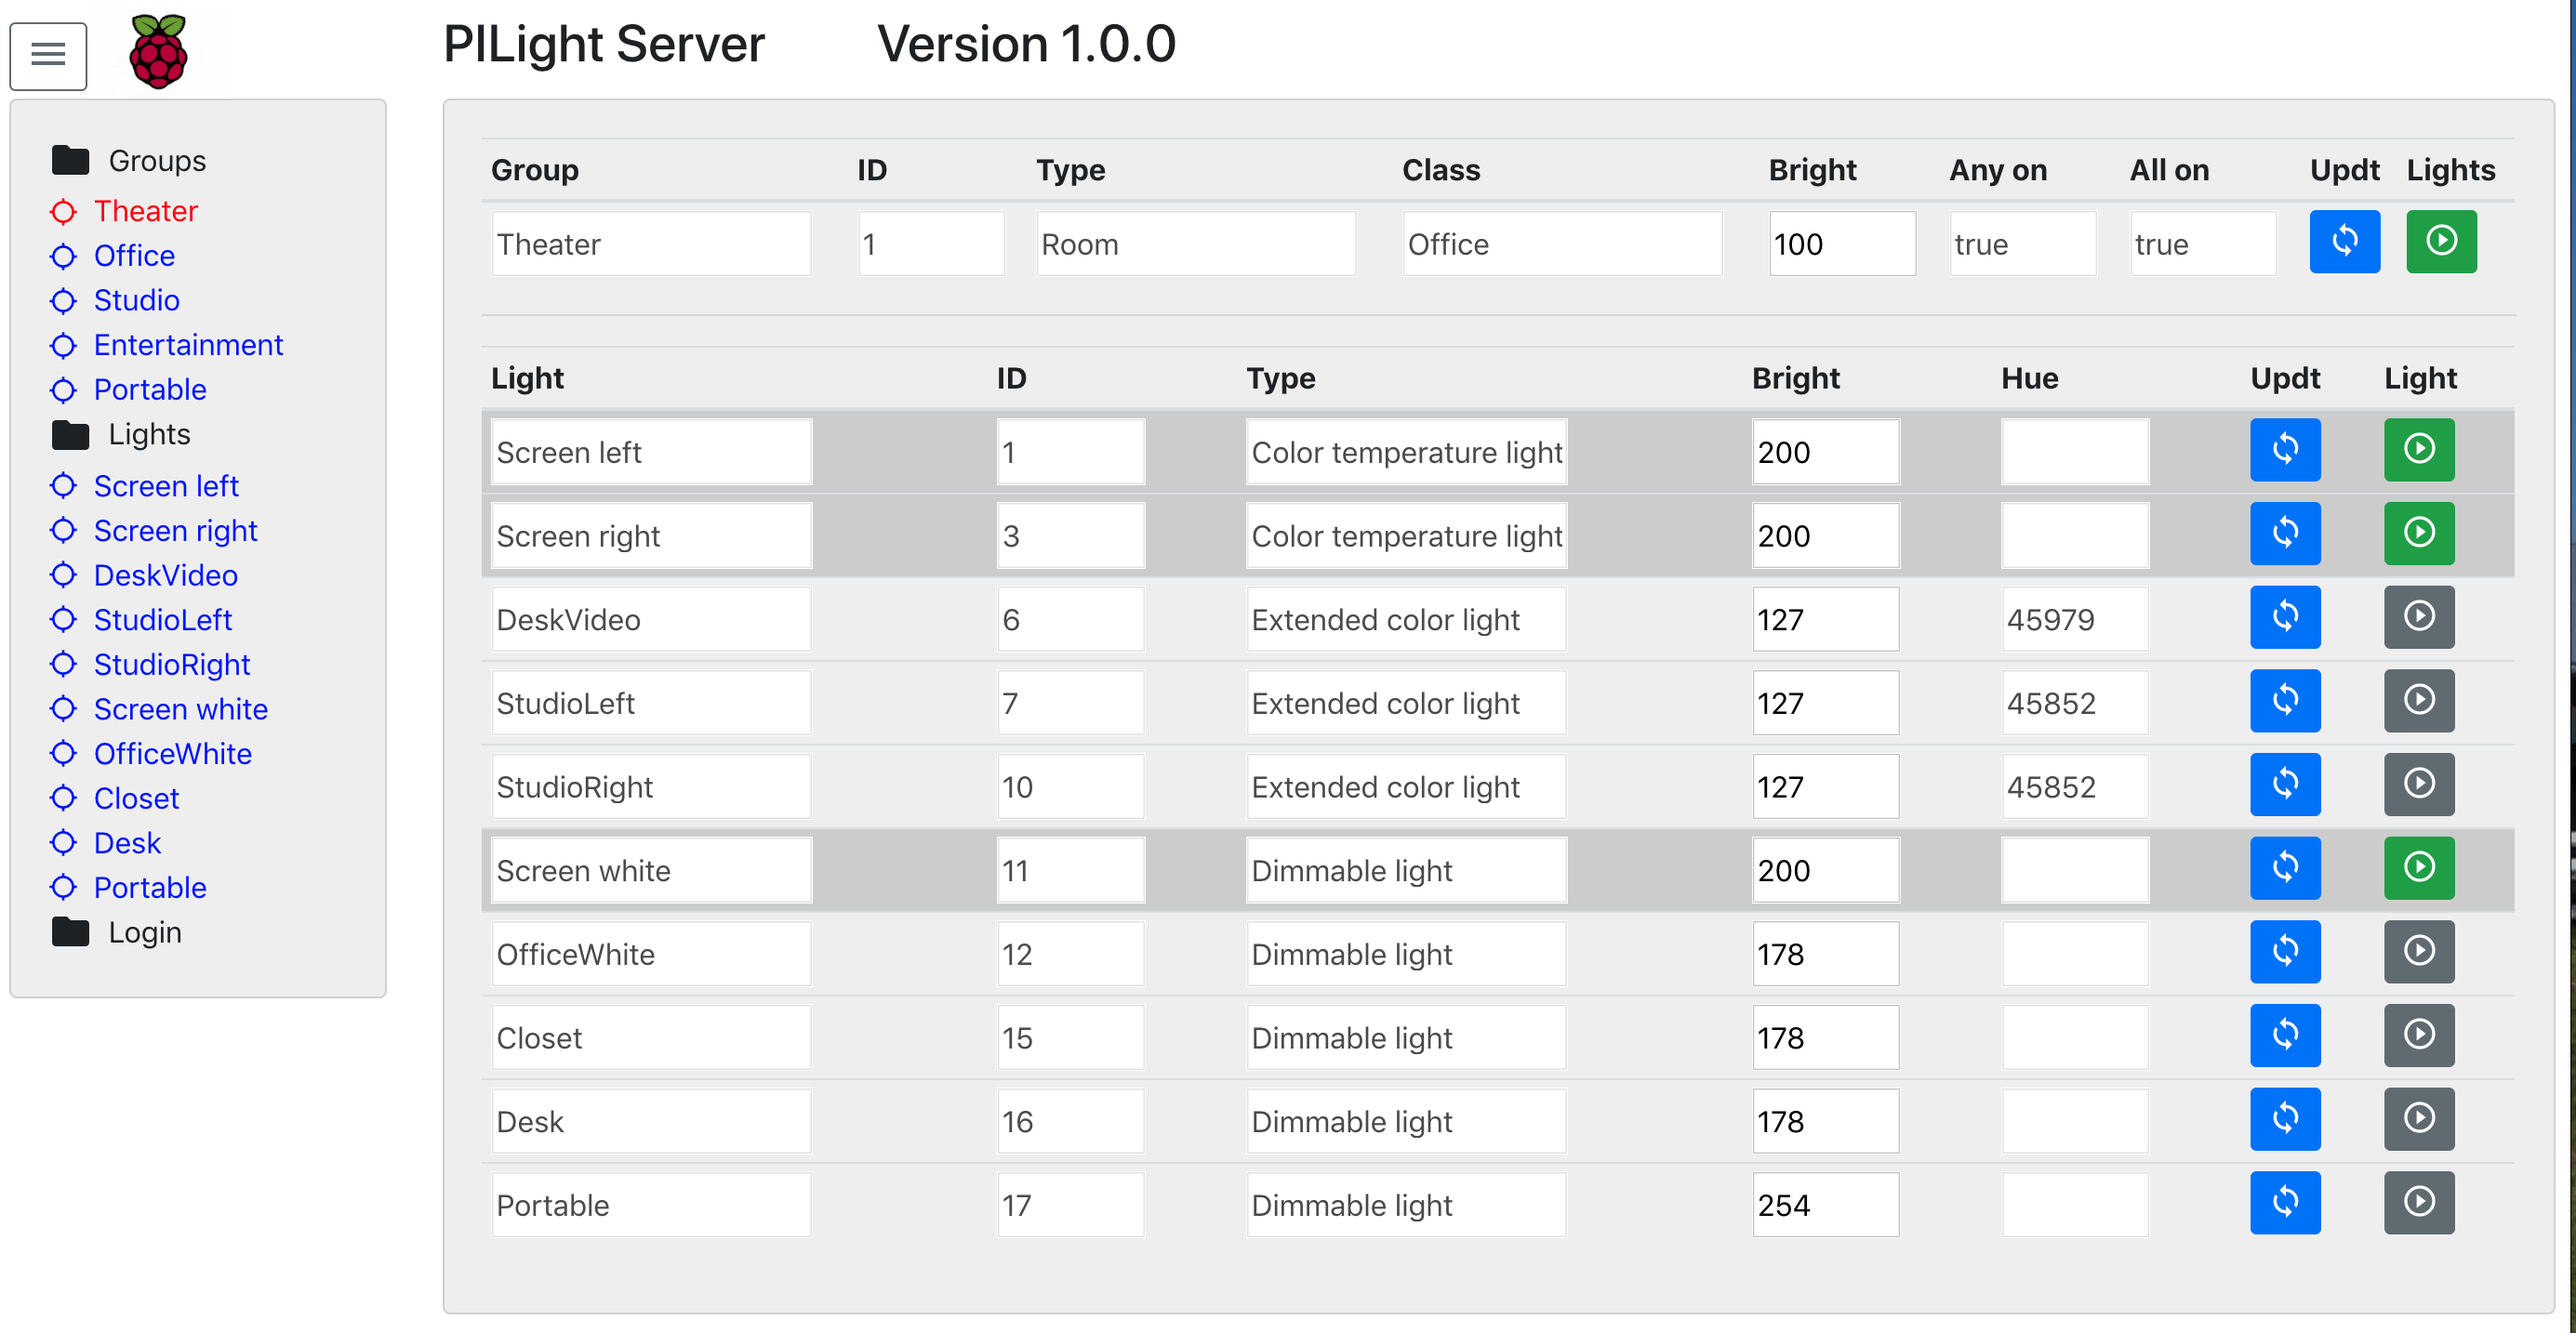
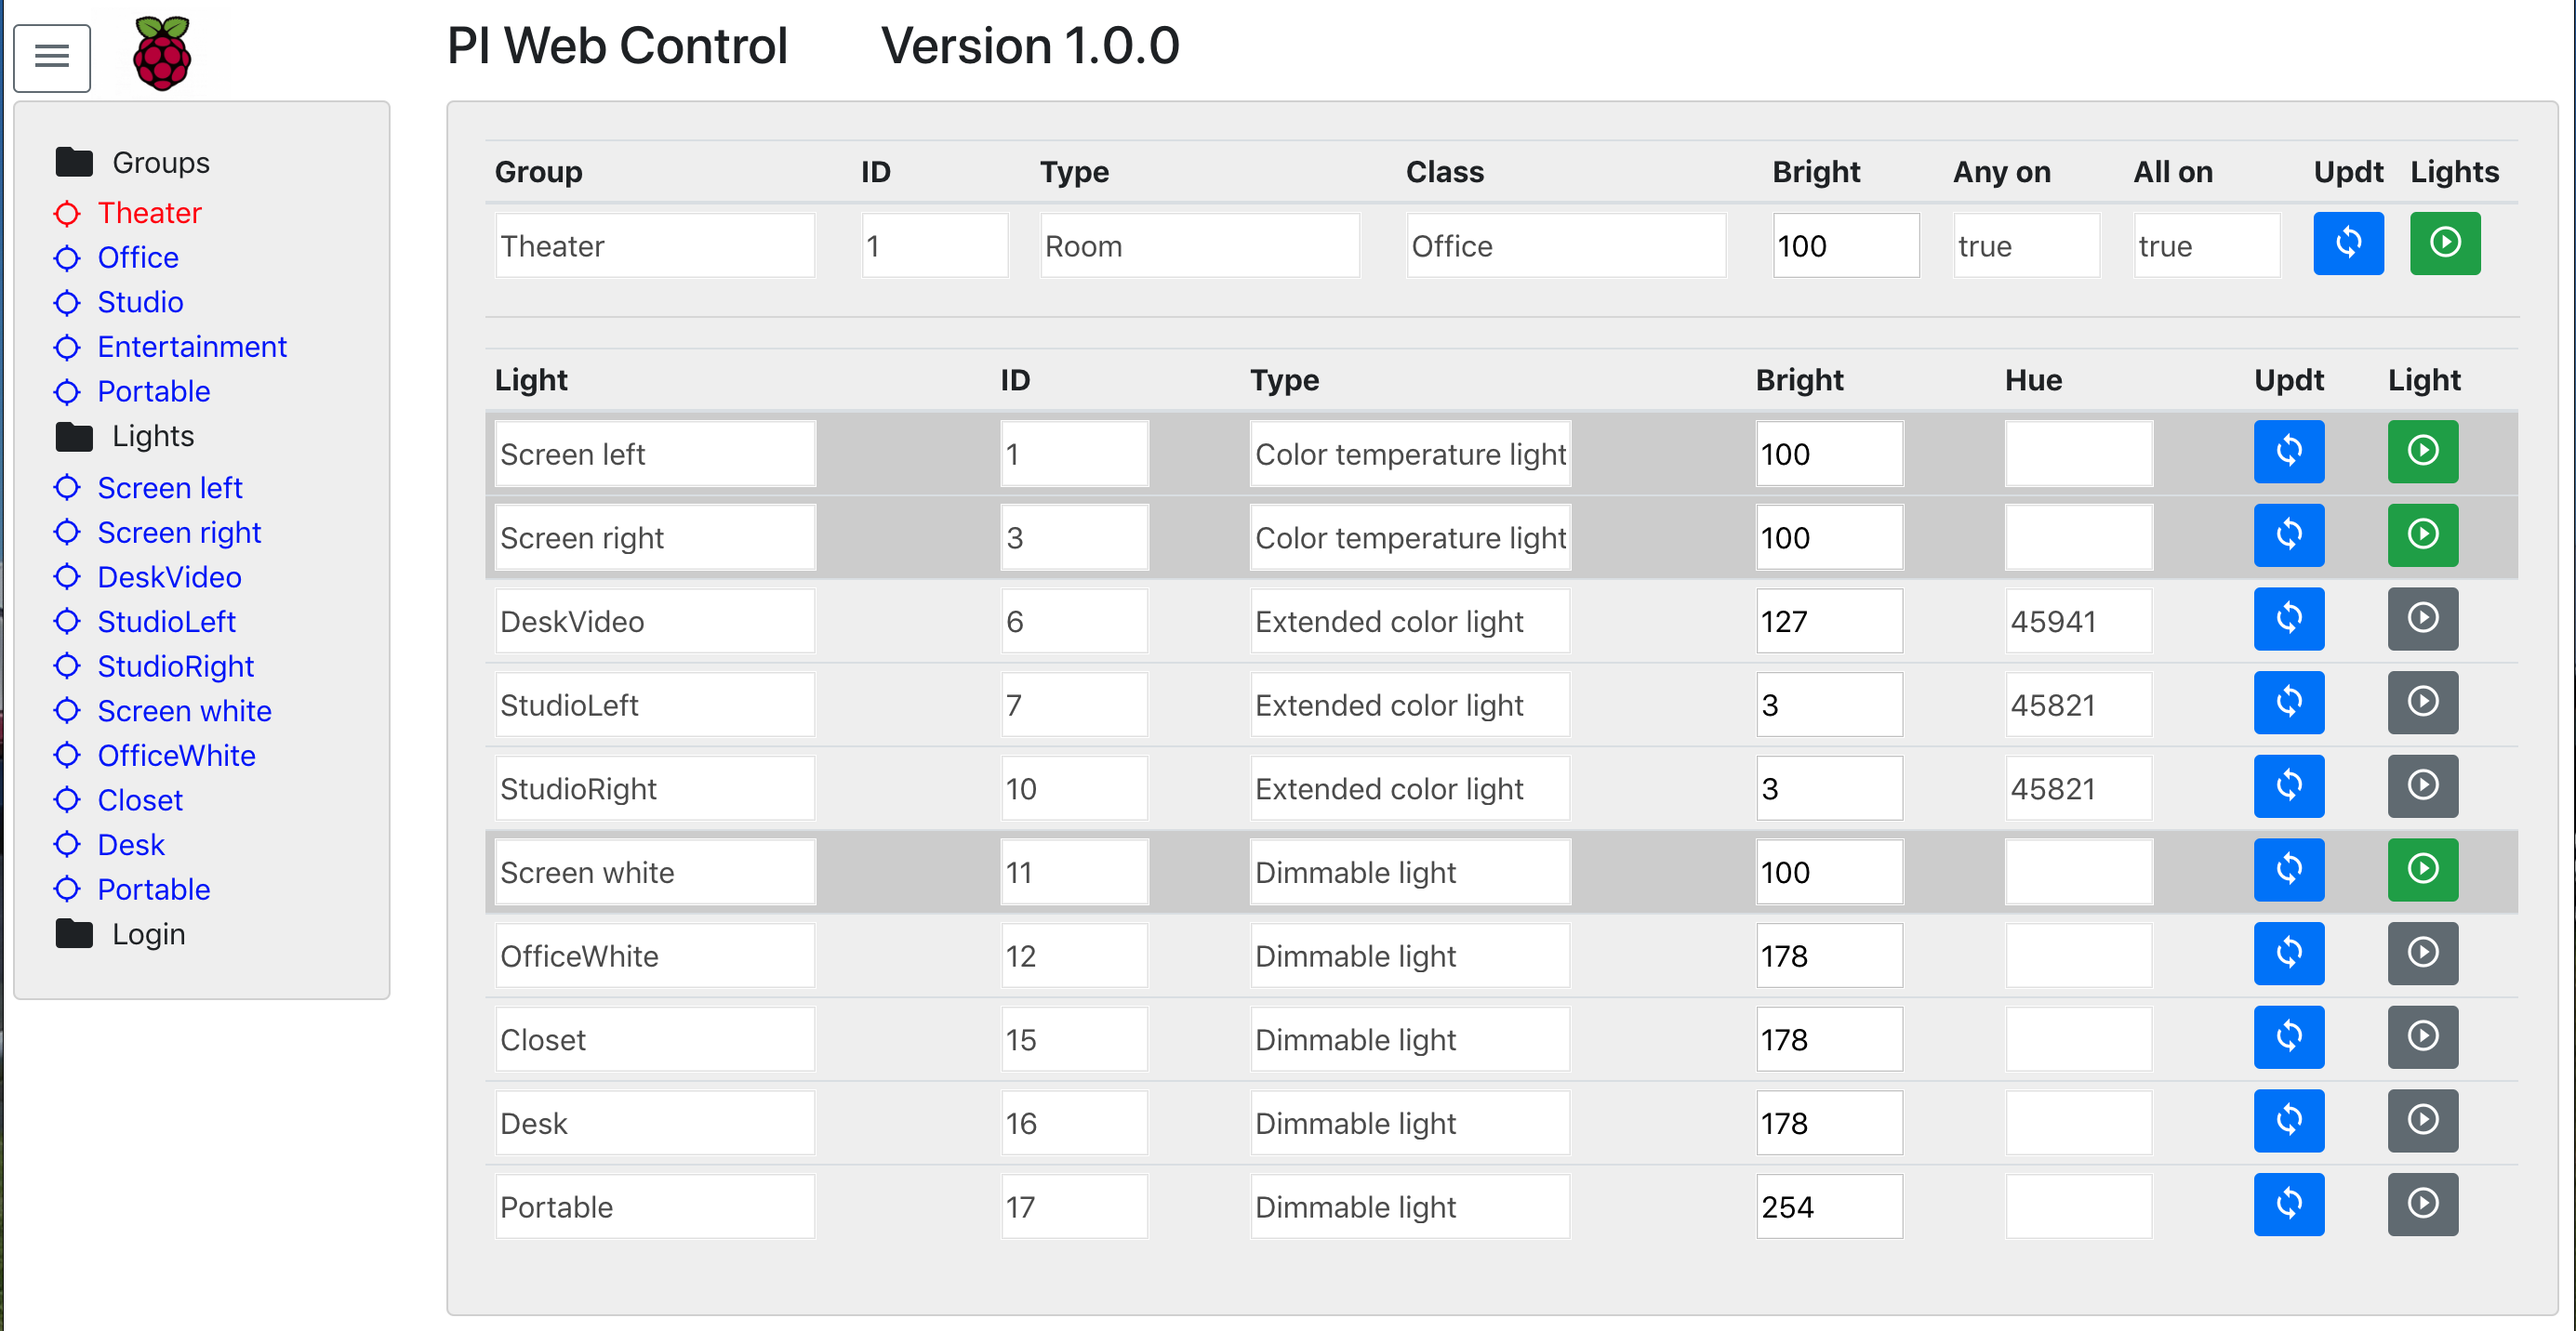
Name change

diff --git a/src/App.js b/src/App.js
@@ -19,7 +19,7 @@ function App() {
             </div>
           
             <div className="col-md-2">
-                <h3 style={{ paddingTop: '8px' }}>PILight Server</h3></div>
+                <h3 style={{ paddingTop: '8px' }}>PI Web Control</h3></div>
             <div className="col-md-2">
                 <h3 style={{ paddingTop: '8px' }}>Version { servdata.version }</h3></div>
           </div>

diff --git a/README.md b/README.md
@@ -3,13 +3,13 @@
 
 
 This project was created to allow web based control of IOT hubs such as the HUE.  
-Initial support for HUE with planned for other hubs in future.  
+Initial support for HUE with a plan for other hubs in future.  
 The server was intended to run on Raspberry PI to allow access to PI peripherals as
-well as local control via sensors and sehedules. 
+well as local control via sensors and schedules. 
 
 ## Getting Started
 
-These instructions will get you a copy of the project up and running on your Raspberry PI 
+These instructions will get the project up and running on your Raspberry PI for
 testing purposes. See deployment for notes on how to deploy the project on a live system.
 
 ### Prerequisites
